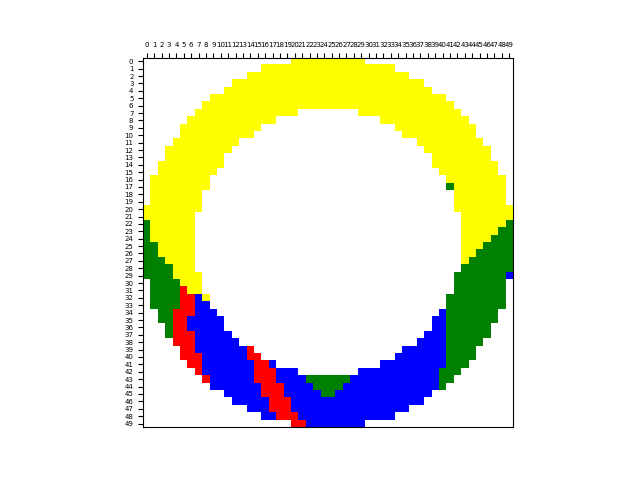
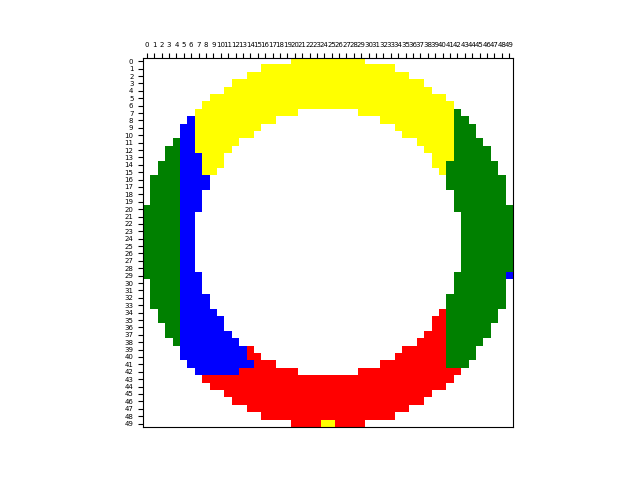
fixed annulus and added length increase

Changed region(s): [[0.3125, 0.625, 0.7188, 0.9062], [0.2188, 0.2188, 0.3438, 0.7812], [0.6875, 0.2188, 0.8125, 0.5625]]

diff --git a/coloring.py b/coloring.py
@@ -19,7 +19,7 @@ N = 20 # Number of pixels on one side of square
 K = 7 # Number of colors
 INIT_TEMP = 10 # Initial temperature for the simulated annealing algorithm
 COOLING_RATE = 0.15 # Cooling rate for the simulated annealing algorithm. Each iteration, T is multiplied by (1-cooling_rate)
-
+LENGTH_INCREASE = 1.2
 
 parser = argparse.ArgumentParser(description="Find discrete colorings of the plane. If command line arguments not used, the default constants in the .py will be used instead.")
 
@@ -36,6 +36,7 @@ parser.add_argument('--iter', action='store_true', help='iterate through all sol
 parser.add_argument('--bits', action='store_true', help='use SAT solver with bit variales')
 parser.add_argument('-t', type=int, default=INIT_TEMP, help='initial temperature for simulated annealing')
 parser.add_argument('-cr', type=float, default=COOLING_RATE, help='cooling rate for simulated annealing')
+parser.add_argument('-li', type=float, default=LENGTH_INCREASE, help='length increase rate for repetition schedule of simulated annealing')
 parser.add_argument('--dens', action='store_true', help='include density of color in cost of simulated annealing')
 parser.add_argument('--cont', action='store_true', help='reward continuity of color in cost of simulated annealing')
 parser.add_argument('--npy', action='store_true', help='store coloring in .npy file instead of png')
@@ -61,7 +62,7 @@ if args.sim:
     if args.cont:
         name += '_cont'
     # use simulated annealing to find an optimal coloring given the parameters
-    coloring, cost = simulated_annealing.simulated_annealing(args.s, args.n, args.k, args.wrapping, args.circ, args.annu, args.t, args.cr, use_density_cost=args.dens, use_continuity_cost=args.cont)
+    coloring, cost = simulated_annealing.simulated_annealing(args.s, args.n, args.k, args.wrapping, args.circ, args.annu, args.t, args.cr, use_density_cost=args.dens, use_continuity_cost=args.cont, length_increase=args.li)
     colorings.append(coloring)
     
     name += '_cost' + ("{:.2f}".format(cost)).replace('.',',')

diff --git a/pairs_helper.py b/pairs_helper.py
@@ -7,14 +7,17 @@ class Format(Enum):
     MATRIX = 2
 
 def in_circ(point, s, n, annulus=False):
-    center_length = 0.5
-    if not annulus:
-        center_length = float(s)/2
+    center_length = float(s)/2
     pixel_length = float(s)/n
     x = (point[0]+0.5)*pixel_length
     y = (point[1]+0.5)*pixel_length
     dist = math.hypot(x - center_length, y - center_length)
-    if dist <= center_length:
+    
+    circle_radius = center_length
+    if annulus:
+        circle_radius = 0.5
+    
+    if dist <= circle_radius:
         return True
     else:
         return False    
@@ -77,7 +80,6 @@ def list_of_pixel_pairs(s, n, wrapping=False, format=Format.MATRIX, circle=False
                                     add_pair(pairs, x, y, x+i, y+j, s, n, format, circle, annulus)
                                 if x - i >= 0 and i != 0 and j != 0:
                                     add_pair(pairs, x, y, x-i, y+j, s, n, format, circle, annulus)
-                    
     return pairs
     
 def circle_helper(coloring, s, n, annulus=False):
